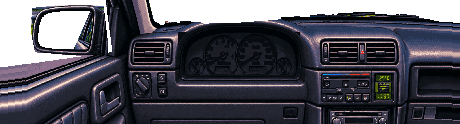
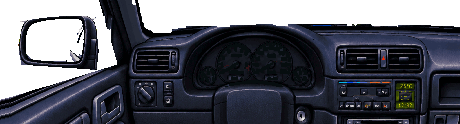
v0.81.8: Vetor GSi com a segunda arte de cabine do Victor (quadro da foto do carro real mantido)
Claude-Session: https://claude.ai/code/session_01MLD9VR7gkmY4w6a9beZcp6

diff --git a/src/cockpit.ts b/src/cockpit.ts
@@ -1286,21 +1286,21 @@ queueMicrotask(() => faceImg(CS_FACE));
 // em barra com o disco escuro grande por cima; aceso em âmbar
 const VT_FACE = cp('br-vectra-cluster');
 const VTG = pumaGauges({
-  id: 'br-vectra', plate: [83, 35, 110, 41], face: VT_FACE, lit: cp('br-vectra-cluster-lit'), lamps: cp('br-vectra-lamps'),
-  lamp: { batt: [95.1, 71.6, 3.2], oil: [136.5, 71.6, 6.8] },
-  speed: [140, 57, 19.5], tach: [108.5, 57, 16.5],
+  id: 'br-vectra', plate: [98.6, 43.8, 110, 41], face: VT_FACE, lit: cp('br-vectra-cluster-lit'), lamps: cp('br-vectra-lamps'),
+  lamp: { batt: [110.7, 80.4, 3.2], oil: [152.1, 80.4, 6.8] },
+  speed: [155.6, 65.8, 19.5], tach: [124.1, 65.8, 16.5],
   speedA: (v) => 180 + (Math.min(246, v) - 20) * 0.877,
   tachA: (k) => 178 + 16.25 * clamp(k, -0.1, 8.2),
   smalls: [
-    [[173, 58, 8.5], () => 180 + (clamp(50 + ((gauges.water - 0.3) / 0.25) * 40, 46, 134) - 50) * (90 / 80)],
-    [[186.4, 58, 8.5], () => 186 + 66 * clamp(gauges.fuel, -0.03, 1.03)],
+    [[188.6, 66.8, 8.5], () => 180 + (clamp(50 + ((gauges.water - 0.3) / 0.25) * 40, 46, 134) - 50) * (90 / 80)],
+    [[202.0, 66.8, 8.5], () => 186 + 66 * clamp(gauges.fuel, -0.03, 1.03)],
   ],
   needles: ['#f4f4f0', '#ffb050'], rest: 0, maxKmh: 246, needleK: 0.74, smallK: 0.8, glow: '255,160,60', drumLit: '#ffbe70',
 });
 COCKPIT_ART['br-vectra'] = {
   dash: cp('br-vectra-dash'), top: cp('br-vectra-top'), wheel: cp('br-vectra-wheel'),
-  glass: { at: [62, 113], thr: 256 }, // retrovisor esquerdo (vidro transparente)
-  pivot: [128, 104], wheelTop: -19.14, wheelDx: 10, wheelDy: -10.51,
+  glass: { at: [53, 117], thr: 256 }, // retrovisor esquerdo (vidro transparente)
+  pivot: [128, 104], wheelTop: -17.83, wheelDx: 24.07, wheelDy: -0.68,
   radar: [205, 26],
   speedMax: 240, speedRest: 0, tachReal: true,
   needle: '#f4f4f0', needleW: 1.4, needleTail: 2.0, hub: '#2a2a30', hubR: 2.6,

diff --git a/tools/ref/vectra_cockpit.py b/tools/ref/vectra_cockpit.py
@@ -26,22 +26,23 @@ import brand_badges  # noqa: E402
 from cockpit_reduce import core, palette  # noqa: E402
 
 ID = 'br-vectra'
-S = 0.25   # a arte é mais aberta (volante e retrovisor maiores na imagem): escala menor que a dos outros
+S = 0.29   # arte nova (2ª): um pouco mais aberta que a dos outros carros
 PXW, PXH = 1 / S, (1 / S) / (8 / 7)
-PIV_X = 820.0   # retrovisor esquerdo inteiro na tela de celular; as bordas que a arte não cobre são construídas (edge_build)
-WHEEL_C = (860.0, 467.0)
-Y0D = 150.0
+PIV_X = 760.0   # retrovisor esquerdo inteiro na tela de celular; as bordas que a arte não cobre são construídas (edge_build)
+WHEEL_C = (843.0, 528.0)
+Y0D = 226.0
 PIV_N = (128.0, 104.0)
 ROWS, EXT, PAD = 124, 76, 102
-WROWS = 190
-RIM_OUT = (860.0, 467.0, 293.0, 293.0)
-RIM_IN = (860.0, 467.0, 242.0, 239.0)
-EMB = (853.0, 482.0, 32.0)
-MIRROR_SEED = (150, 280)
-CLUSTER = [(612, 262), (1100, 262), (1100, 418), (612, 418)]    # moldura do quadro (miolo vira preto)
-WIND_X = lambda y: 455 + (y / 240.0) * 65                         # borda direita da coluna A
-DOOR_Y = lambda x: 375 - x * 0.125                                # borda de cima da porta (janela acima)
-HOUSING = [(28, 178), (150, 166), (314, 170), (332, 300), (334, 348), (268, 348), (40, 332), (24, 262)]
+WROWS = 200
+RIM_OUT = (843.0, 528.0, 260.0, 256.0)
+RIM_IN = (843.0, 528.0, 218.0, 214.0)
+EMB = (842.0, 541.0, 31.0)
+MIRROR_SEED = (150, 350)
+CLUSTER = [(640, 345), (1050, 345), (1050, 488), (640, 488)]    # moldura do quadro (miolo vira preto)
+WIND_X = lambda y: 405 + y * 0.17                                # borda direita da coluna A (medida)
+PILLAR_L = lambda y: 232 + y * 0.34                              # borda esquerda da coluna A
+DOOR_Y = lambda x: 520 - x * 0.27                                # borda de cima da porta (janela acima)
+HOUSING = [(30, 290), (150, 276), (296, 272), (306, 380), (300, 436), (240, 432), (40, 420), (28, 360)]
 
 
 def scene_mask(nw):
@@ -66,12 +67,12 @@ def dash_line(nw):
     lum = a.mean(axis=2)
     dk = (lum < 58) & ~(g > r + 8) & ~((b > r + 30) & (b > 100))
     W = nw.shape[1]
-    d = np.full(W, 210.0)
+    d = np.full(W, 300.0)
     for x in range(W):
-        col = dk[175:330, x]
+        col = dk[240:400, x]
         for k in range(len(col) - 7):
             if col[k:k + 7].sum() >= 6:
-                d[x] = 175 + k
+                d[x] = 240 + k
                 break
     d = np.array([np.median(d[max(0, x - 20):x + 21]) for x in range(W)])
     # linha lisa (a borda do painel é uma curva suave): polinômio de 3º grau à direita da coluna A
@@ -89,7 +90,7 @@ def glass_mask(nw):
     wind = (xx > WIND_X(yy)) & (yy < dl[xx])
     # janela da porta: à esquerda da coluna, acima da porta
     house = cv2.fillPoly(np.zeros((H, W), np.uint8), [np.array(HOUSING, np.int32)], 1) > 0
-    win = (xx < 300 + yy * 0.15) & (yy < DOOR_Y(xx)) & ~house
+    win = (xx < PILLAR_L(yy) - 2) & (yy < DOOR_Y(xx)) & ~house
     # vidro do retrovisor esquerdo (o cenário dentro da moldura escura)
     n, lab = cv2.connectedComponents((sc & house).astype(np.uint8), connectivity=8)
     mir = lab == lab[MIRROR_SEED[1], MIRROR_SEED[0]]
@@ -99,7 +100,16 @@ def glass_mask(nw):
     frame = house & ~mir & ~sc        # moldura do retrovisor fica
     # rente à linha do painel: o que ainda é cenário (pé da grade, mato, céu) também é vidro
     band = (xx > WIND_X(yy)) & (yy >= dl[xx] - 2) & (yy < dl[xx] + 3)
-    g = (wind | win | mir | (band & sc)) & ~frame
+    a = nw.astype(int)
+    leafy = sc | (a[..., 1] > a[..., 0] + 5) | (a[..., 2] > a[..., 0] + 25)   # mato escuro e céu, que a coluna (cinza-roxo) não tem
+    pil = (xx > WIND_X(yy) - 45) & (xx <= WIND_X(yy) + 45) & (yy < dl[xx]) & leafy   # dos dois lados da borda da coluna A
+    pl = PILLAR_L(yy)
+    pil |= (xx > pl - 60) & (xx < pl + 8) & (yy < DOOR_Y(xx)) & leafy & ~house
+    pil |= (xx > WIND_X(yy)) & (xx < 560) & (yy < 335) & (leafy | ((a[..., 0] > a[..., 1] + 30) & (a[..., 0] > 110)))               # canto de baixo do para-brisa junto da coluna
+    green = (a[..., 1] > a[..., 0] + 12) | ((a[..., 2] > a[..., 0] + 40) & (a[..., 2] > 110))
+    frame &= ~green                                                          # mato e céu em volta da carcaça do retrovisor são janela
+    pil |= house & green & ~mir & (yy < DOOR_Y(xx))
+    g = (wind | win | mir | (band & sc) | pil) & ~frame
     g = cv2.morphologyEx(g.astype(np.uint8), cv2.MORPH_CLOSE, np.ones((3, 3), np.uint8)) > 0
     # postes da grade em pé sobre o painel (estreitos): saem numa abertura horizontal
     near = (xx > WIND_X(yy) + 20) & (yy >= dl[xx] - 25) & (yy < dl[xx] + 6)
@@ -158,7 +168,7 @@ def wheel_mask(ww):
     ell = lambda e: ((x4 - e[0]) / e[2]) ** 2 + ((y4 - e[1]) / e[3]) ** 2 <= 1  # noqa: E731
     inner = ell(RIM_IN)
     lum = ww.astype(int).mean(axis=2)
-    pad = inner & (y4 > 404) & (lum > 36)
+    pad = inner & (y4 > 470) & (lum > 36)
     pad = cv2.morphologyEx(pad.astype(np.uint8), cv2.MORPH_CLOSE, np.ones((9, 9), np.uint8))
     pad = cv2.morphologyEx(pad, cv2.MORPH_OPEN, np.ones((7, 7), np.uint8))
     n, lab, st, _ = cv2.connectedComponentsWithStats(pad, connectivity=4)
@@ -206,7 +216,7 @@ def main():
     wheel = wheel_mask(ww)
     if dbg:
         v = ww.copy(); v[~wheel] = (v[~wheel] * 0.35 + np.array([0, 160, 0]) * 0.65).astype(np.uint8)
-        Image.fromarray(v[160:780, 550:1170]).save(os.path.join(dbg, 'wheel-mask.png'))
+        Image.fromarray(v[260:800, 570:1120]).save(os.path.join(dbg, 'wheel-mask.png'))
     Y0D -= UP
     top = WHEEL_C[1] - RIM_OUT[3] - 4
     xs = WHEEL_C[0] + (np.arange(256) + 0.5 - 128) * PXW

diff --git a/tools/ref/vectra_gauges.py b/tools/ref/vectra_gauges.py
@@ -24,13 +24,13 @@ sys.path.insert(0, os.path.dirname(os.path.abspath(__file__)))
 import onca_gte_gauges as G  # noqa: E402
 from PIL import Image, ImageDraw  # noqa: E402
 
-G.X0, G.Y0, G.X1, G.Y1 = 83.0, 35.0, 193.0, 76.0
+G.X0, G.Y0, G.X1, G.Y1 = 98.6, 43.8, 208.6, 84.8
 G.W, G.H = int(round((G.X1 - G.X0) * G.K)), int(round((G.Y1 - G.Y0) * G.K))
 G.KO = 8
-TACH = dict(x=108.5, y=57.0, R=16.5)
-SPEED = dict(x=140.0, y=57.0, R=19.5)
-TEMP = dict(x=173.0, y=58.0, R=8.5)
-FUEL = dict(x=186.4, y=58.0, R=8.5)
+TACH = dict(x=124.1, y=65.8, R=16.5)
+SPEED = dict(x=155.6, y=65.8, R=19.5)
+TEMP = dict(x=188.6, y=66.8, R=8.5)
+FUEL = dict(x=202.0, y=66.8, R=8.5)
 tach_a = lambda k: 178.0 + k * 16.25
 speed_a = lambda v: 180.0 + (v - 20) * 0.877
 temp_a = lambda t: 180.0 + (t - 50) * 90.0 / 80      # 50 °C frio (9h) a 130 °C quente (12h)
@@ -38,8 +38,8 @@ fuel_a = lambda f: 186.0 + 66.0 * f
 DAY = dict(G.DAY, face=(38, 40, 46), ink=(238, 238, 236), red=(220, 40, 30), icon_off=(70, 70, 76), drum=(20, 20, 24), white=(214, 212, 204))
 LIT = dict(G.LIT, face=(16, 14, 14), ink=(255, 170, 72), dim=(220, 130, 50), red=(255, 70, 40), icon_off=(64, 44, 24), drum=(10, 9, 8), white=(150, 110, 60))
 BLUE = (60, 150, 230)
-ROW_Y = 71.6
-LAMP_X = [87.5, 91.3, 95.1, 98.9, 102.7, 106.5, 110.3, 118.0, 136.5, 150.0, 161.0, 168.5, 176.0, 183.5]
+ROW_Y = 80.4
+LAMP_X = [103.1, 106.9, 110.7, 114.5, 118.3, 122.1, 125.9, 133.6, 152.1, 165.6, 176.6, 184.1, 191.6, 199.1]
 LAMPS = [('batt', 2), ('oil', 8)]  # índice em LAMP_X
 
 

diff --git a/CLAUDE.md b/CLAUDE.md
@@ -28,7 +28,7 @@
   com velocímetro digital turquesa (patrol_cockpit2.py, patrolCluster). Cadete GSi (Kadett GSi 2.0): exterior novo branco (tools/ref/kadett_sprites.py: "CHEVROLET" da tampa sai)
   e capas (kadett_photos.py: kd-revista, kd-praia, kd-duelo); cabine nova (kadett_cockpit.py: painel da arte sem volante,
   volante da com volante, vidros pelo magenta) com o quadro digital da foto do carro real (kadettCluster). Vetor GSi (Vectra GSi 2.0 16v): exterior novo branco com cenário (tools/ref/vectra_sprites.py) e capas
-  (vectra_photos.py: vt-estrada, vt-motor, vt-folheto); cabine nova (vectra_cockpit.py, escala 0,25: a arte é mais aberta; depois rodar edge_build.py br-vectra R 17 0.05 e L 25 0.14)
+  (vectra_photos.py: vt-estrada, vt-motor, vt-folheto); cabine nova (2ª arte do Victor; vectra_cockpit.py, escala 0,29; depois rodar edge_build.py br-vectra L 10 0.27)
   com o quadro da foto do carro real (vectra_gauges.py, pumaGauges). Os demais (ZR1, Uno) ficam como estão
   até a arte nova chegar, para não haver retrabalho: nada de retoques, retrovisores ou quadros neles.
   Na dúvida, perguntar.
